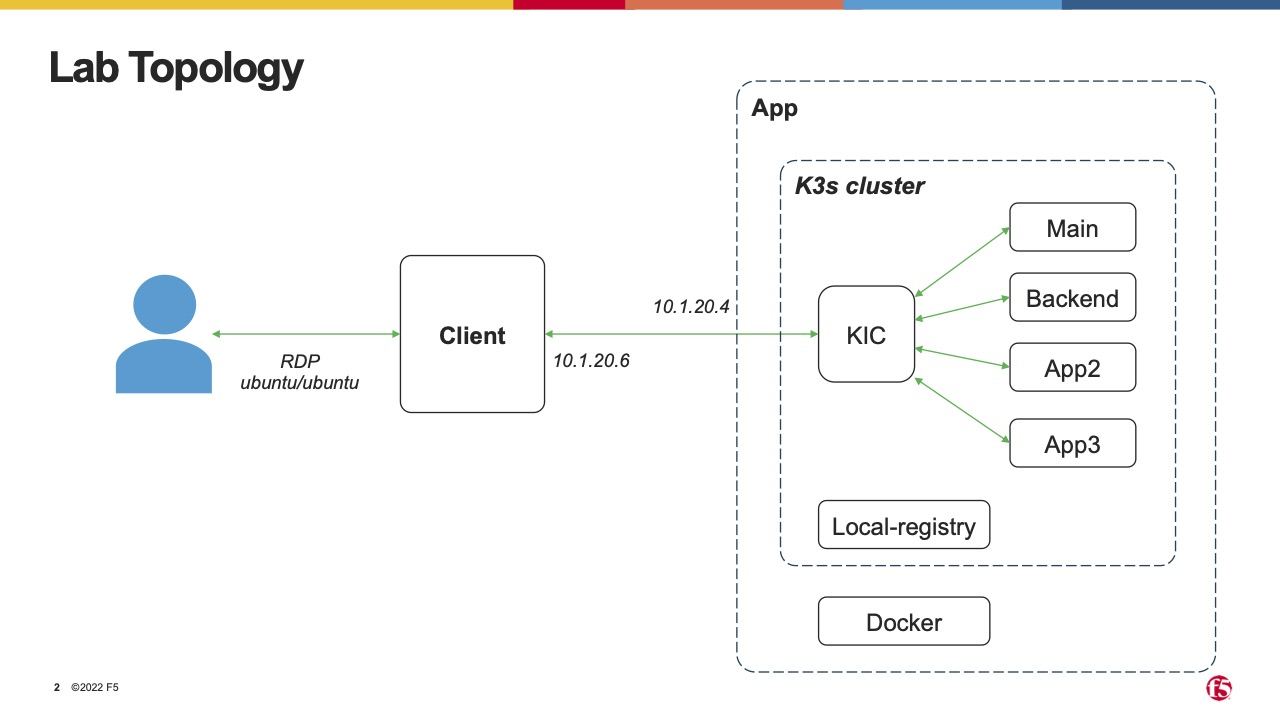
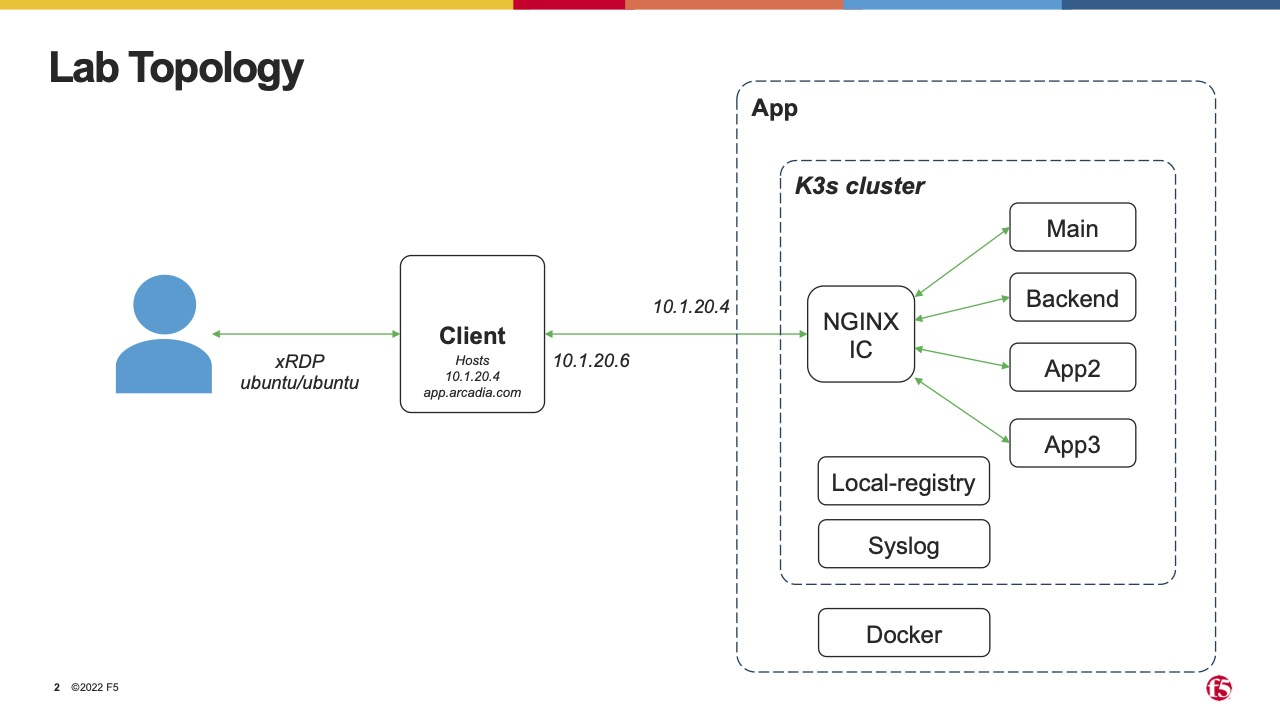
a

diff --git a/docs/source/about-the-lab.rst b/docs/source/about-the-lab.rst
@@ -13,7 +13,7 @@ Topology
   This is where we will deploy *Arcadia Apps* and *NGINX Plus Ingress Controller*.
   The **Arcadia Apps** is micro-services based hence *k3s* cluster need to be installed in this node.
 
-KIC
+NGINX IC
   Kubernetes Ingress Controller using *NGINX Plus Ingress Controller* with *App. Protect* enabled
 
 Main
@@ -30,6 +30,9 @@ App3
 
 Local-registry
   Docker registry running on local kubernetes cluster
+
+Syslog
+  Will be used to collect App. Protect logs
 
 Docker
   Self-explained
